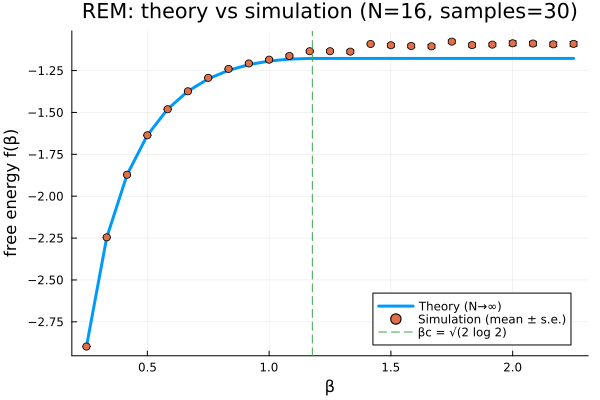
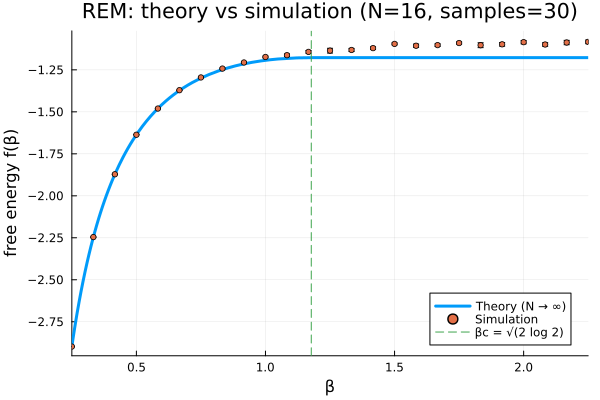
code blog updated

diff --git a/_css/basic.css b/_css/basic.css
@@ -13,8 +13,10 @@ body {
   font-family: -apple-system, BlinkMacSystemFont, "Segoe UI",
                system-ui, sans-serif;
   font-size: 16px
+  
 }
 
+/*font-family: "Latin Modern Roman", "CMU Serif", serif;*/
 
 nav {
   width: 100%;

diff --git a/blog/2025/REM1.md b/blog/2025/REM1.md
@@ -151,91 +151,92 @@ If $\beta$ is too large (i.e. the temperature too low), the corresponding maximi
 
 
 
-```julia:./ex1
-using Random, Statistics
-using Plots
+```julia:./rem
+using Random, Statistics, Plots
 
-# ---------- Numerics ----------
+"""
+    Robust implementation of logsumexp
+"""
 logsumexp(x) = (m = maximum(x); m + log(sum(exp.(x .- m))))
 
 """
-One-sample REM free energy per spin:
-Eα ~ Normal(0, N), α=1..2^N
-fN(β) = -(1/(βN)) log Σ exp(-β Eα)
+    One-sample REM free energy
 """
-function rem_free_energy_per_spin(N::Int, β::Float64; rng=Random.default_rng())
+function rem_free_energy_sample(N::Int, β::Float64)
     M = 1 << N
     σ = sqrt(N)
-    E = σ .* randn(rng, M)
-    logZ = logsumexp(-β .* E)
-    return -(1 / (β * N)) * logZ
+    E = σ .* randn(M)
+    logZ = logsumexp(- β .* E)
+    return - logZ / (β * N)
 end
 
-# ---------- Theory (N→∞) ----------
+
+"""
+    Averaged REM free energy in the limit N → ∞
+"""
 function rem_free_energy_theory(β::Float64)
-    βc = sqrt(2 * log(2))
+    βc = √(2log(2))
     if β <= βc
-        return -(log(2)/β) - (β/2)
+        return - log(2) / β - β / 2
     else
-        return -sqrt(2 * log(2))
+        return -√(2log(2))
     end
 end
 
-# ---------- Experiment: average over disorder ----------
-function simulate_curve(N::Int, betas::Vector{Float64}; nsamples::Int=30, seed::Int=1)
-    rng = MersenneTwister(seed)
+
+function simulate_curve(N::Int, βs::Vector{Float64}; nsamples::Int=30, seed::Int=1)
+    # rng = MersenneTwister(seed)
     means = Float64[]
     stderrs = Float64[]
-    for β in betas
-        vals = [rem_free_energy_per_spin(N, β; rng=rng) for _ in 1:nsamples]
+    for β in βs
+        vals = [rem_free_energy_sample(N, β) for _ in 1:nsamples]
         push!(means, mean(vals))
-        push!(stderrs, std(vals) / sqrt(nsamples))
+        push!(stderrs, std(vals) / √nsamples)
+        println("β=$(round(β,digits=3))  f_sim=$(round(vals[1],digits=4))  f_th=$(round(rem_free_energy_theory(β),digits=4))")
     end
     return means, stderrs
 end
 
-# ---------- Plot ----------
-function plot_rem_free_energy(; N=18,
-                              betas=collect(range(0.25, 2.25, length=25)),
+
+function plot_rem_free_energy(; N=18, βmin = 0.25, βmax = 2.25, nβ=25,
                               nsamples=30,
                               seed=1,
                               outfile="rem_free_energy.png")
-    βc = sqrt(2 * log(2))
-    f_th = [rem_free_energy_theory(β) for β in betas]
-    f_sim, f_err = simulate_curve(N, betas; nsamples=nsamples, seed=seed)
+    βc = √(2log(2))
+    βs = collect(range(βmin, βmax, length=nβ))
 
-    p = plot(betas, f_th;
-        label="Theory (N→∞)",
+    f_sim, f_err = simulate_curve(N, βs; nsamples=nsamples, seed=seed)
+
+    p = plot(rem_free_energy_theory, xlim=(βmin, βmax);
+        label="Theory (N → ∞)",
         linewidth=3,
         xlabel="β",
         ylabel="free energy f(β)",
         title="REM: theory vs simulation (N=$N, samples=$nsamples)"
     )
 
-    scatter!(p, betas, f_sim;
+    scatter!(p, βs, f_sim;
         yerror=f_err,
-        label="Simulation (mean ± s.e.)",
-        markersize=4
+        label="Simulation",
+        markersize=3
     )
 
     vline!(p, [βc]; label="βc = √(2 log 2)", linestyle=:dash)
 
     savefig(p, outfile)
-    return p
+    #return p
 end
 
 plot_rem_free_energy(N=16, nsamples=30, outfile="./_assets/images/blog/rem_free_energy.png")
 
 ```
 
-<!--\output{./ex1}-->
+\output{./rem}
 
 @@center ![aaa entropy of REM](/assets/images/blog/rem_free_energy.png) @@
 
 
 ## some more stuff
-
-$$\scal{\frac{a}{b}} \cdot \bs{a}$$
 
 For the central limit theorem we expect the sum of lognormal random variables to converge to a Gaussian distribution, So no heavy tail behavior, so annealed ansatz should be correct! But it should be wrong below the condensation, why?
 Lognormals are subexponential (heavy-tailed in the sense of convolution). Consequently, for large thresholds 

diff --git a/pages/cv.md b/pages/cv.md
@@ -42,7 +42,7 @@
 
 * Bocconi Research Excellence Award (2021 & 2023)
 
-* [Special mention](https://www.mi.infn.it/en/news-eventi-2/news/1549-enrico-maria-malatesta-and-simone-sala-received-a-special-mention-for-their-ph-d-thesis.html) from the INFN Fubini prize evaluation committee, for one of the best Theoretical Physics PhD thesis of 2018
+* [Special mention](https://www.mi.infn.it/en/news-eventi-2/news/1549-enrico-maria-malatesta-and-simone-sala-received-a-special-mention-for-their-ph-d-thesis.html) from the INFN Fubini prize evaluation committee (2018)
 
 * Scholarship “Ernesto e Iole de Maggi”, Sapienza University of Rome (2013)
 

diff --git a/index.md b/index.md
@@ -6,7 +6,7 @@
 
 @@row
 @@container
-@@left ![Enrico M. Malatesta](/assets/images/img.jpeg) @@
+@@left ![Enrico M. Malatesta](/assets/images/img.jpeg) $\qquad$ @@
 @@
 
 
